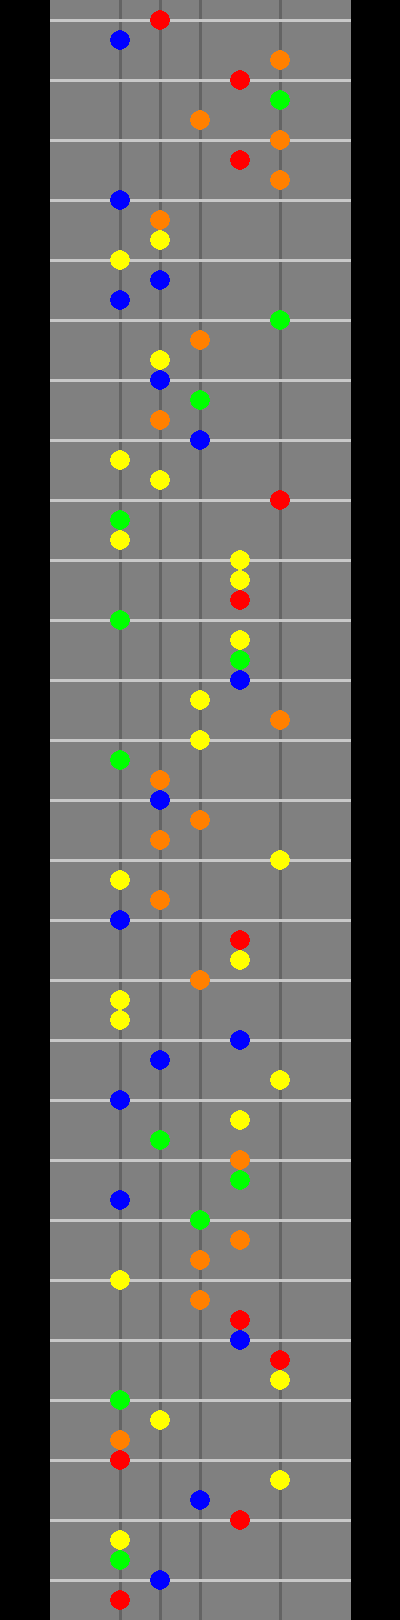
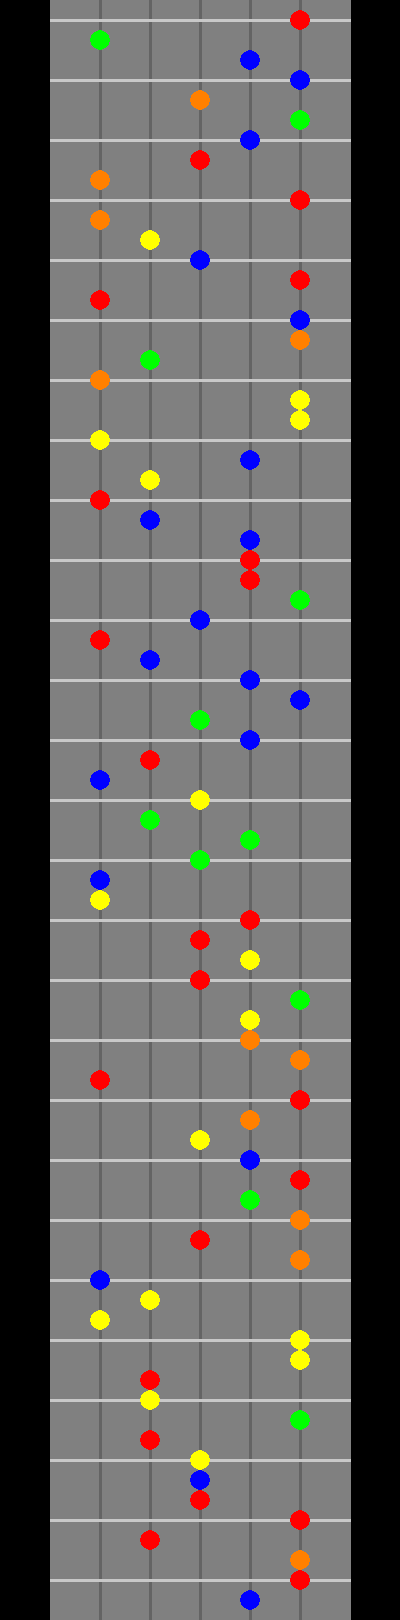
Fixing distance between notes

diff --git a/src/create_track.py b/src/create_track.py
@@ -20,11 +20,11 @@ def choose_color():
 
 def draw_line(screen):
     """ Draw the lines where the notes will roll """
-    draw.line(screen, (100, 100, 100), (120, 0), (120, 2160), 3)
-    draw.line(screen, (100, 100, 100), (160, 0), (160, 2160), 3)
+    draw.line(screen, (100, 100, 100), (100, 0), (100, 2160), 3)
+    draw.line(screen, (100, 100, 100), (150, 0), (150, 2160), 3)
     draw.line(screen, (100, 100, 100), (200, 0), (200, 2160), 3)
-    draw.line(screen, (100, 100, 100), (240, 0), (240, 2160), 3)
-    draw.line(screen, (100, 100, 100), (280, 0), (280, 2160), 3)
+    draw.line(screen, (100, 100, 100), (250, 0), (250, 2160), 3)
+    draw.line(screen, (100, 100, 100), (300, 0), (300, 2160), 3)
 
 
 pygame.init()
@@ -32,7 +32,7 @@ clock = pygame.time.Clock()
 screen = pygame.display.set_mode((400, int(1080*1.5)))
 line_color = (128, 128, 128)
 polygon_points = [(50, 0), (350, 0), (350, 3000), (50, 3000)]
-x = [120, 160, 200, 240, 280]
+x = [100, 150, 200, 250, 300]
 
 
 draw.polygon(screen, line_color, polygon_points)  # Path for the notes
@@ -45,4 +45,4 @@ for y in range(20, int(1080*1.5), 20):
     draw.circle(screen, choose_color(), (choice(x), y), 10)
 
 pygame.display.flip()
-pygame.image.save(screen, 'chart.png')
+pygame.image.save(screen, '../chart.png')
